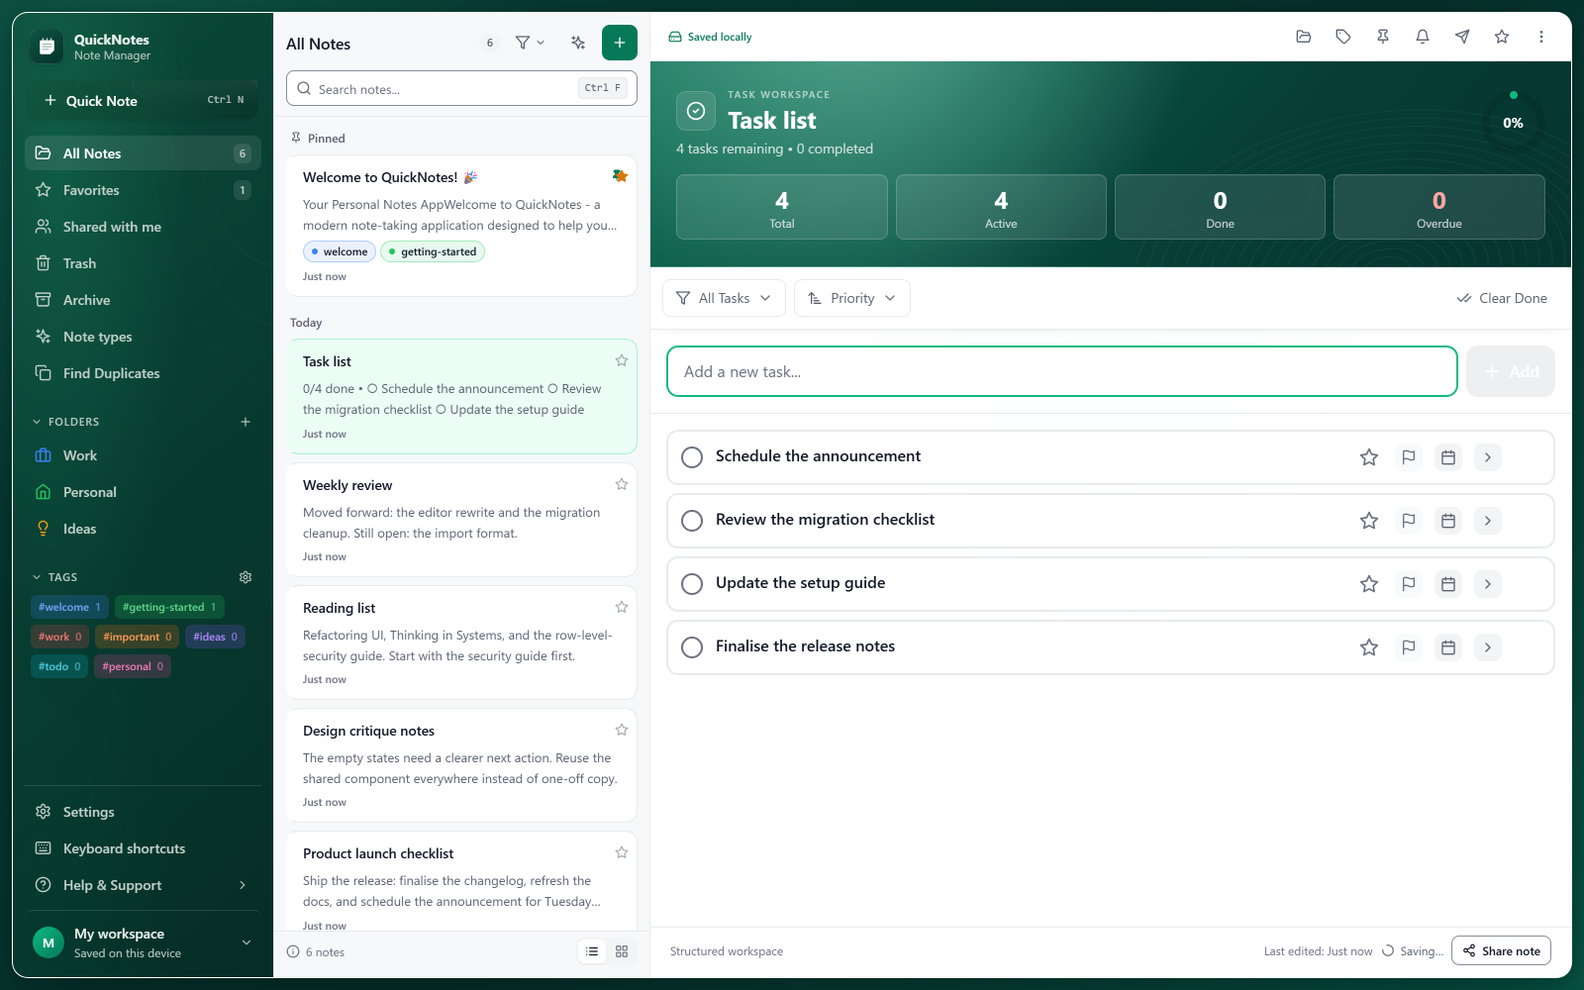
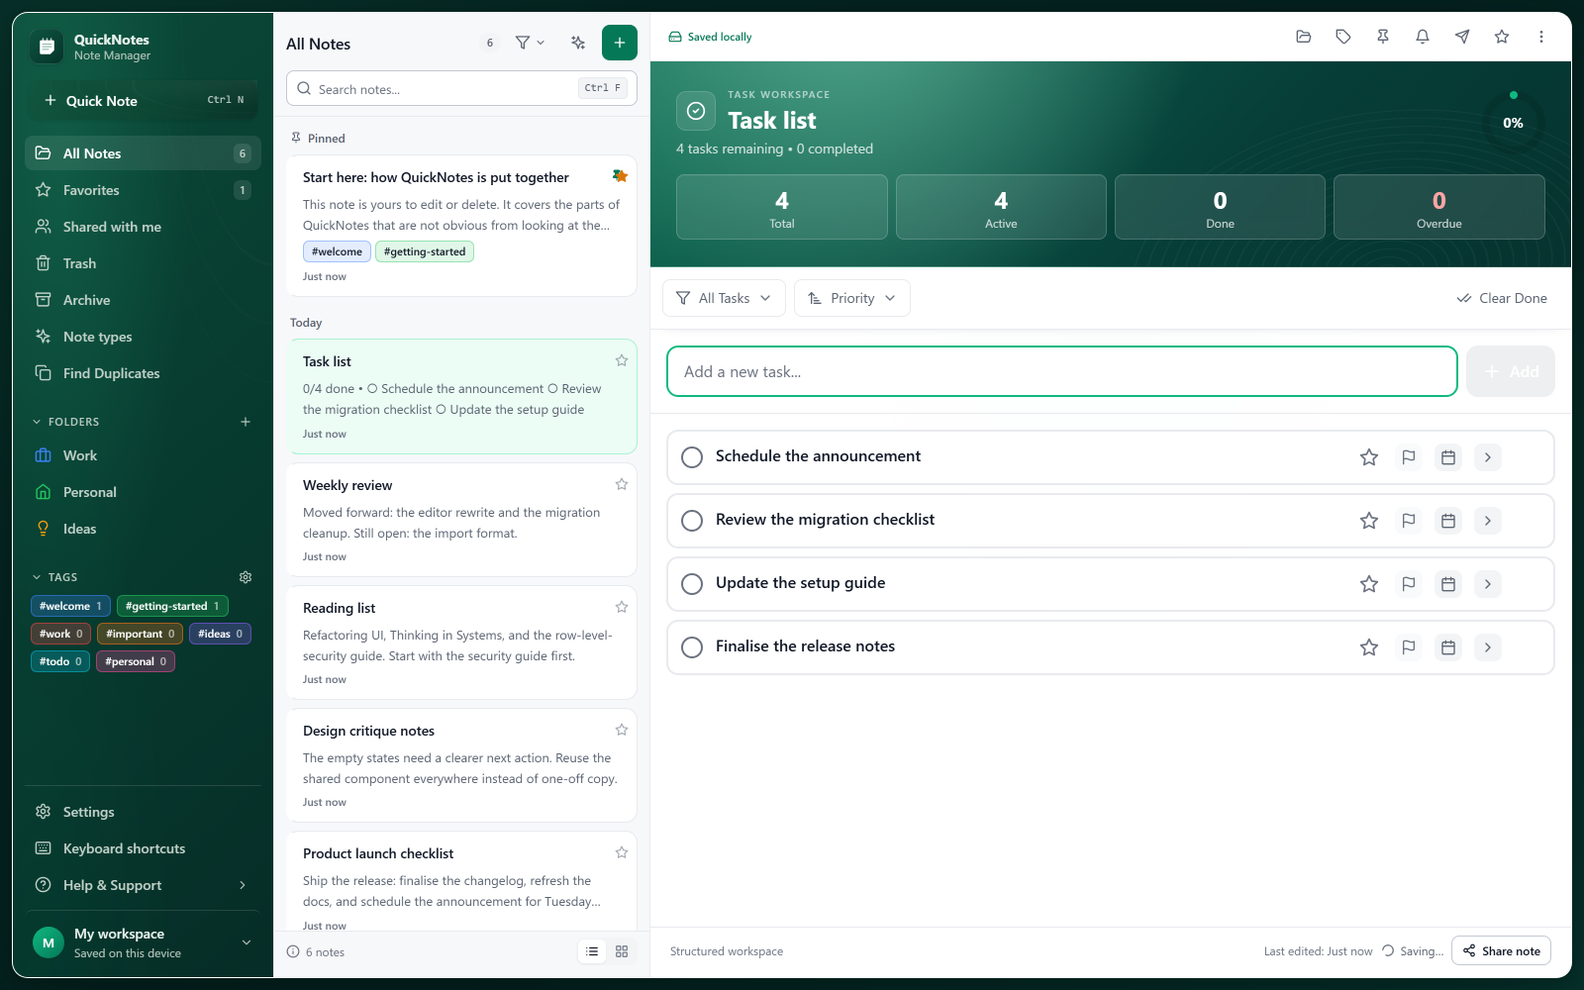
fix: restore the previous control borders, unify tag chips, rewrite the starter note
Control borders:
- Reverted the stronger interactive border introduced earlier, including the
  --qn-border-control token and its Tailwind mapping. It had only reached the
  shared Input and Button, while the many hand-rolled fields across the
  dialogs kept the old border, so the app was half converted and looked
  worse than before the change. Borders are byte-for-byte back to v2.0.1

Tag chips:
- There were three designs for the same thing: the note list drew a pill with
  a coloured dot and no "#", the rail drew a rounded chip with coloured text,
  and the editor banner drew a neutral chip that ignored the tag colour
  entirely. All three now use one TagChip with a `surface` or `dark` variant
- Dropped the dot. The hue is carried by the tint and the border, and the
  label still takes a theme text colour, so a user-chosen colour can never
  decide the contrast of the text

Workspace backdrop:
- The desk behind the workspace frame was nearly the same green as the
  navigation rail, so the frame stopped reading as inset. It is now darker
  and less saturated

Starter note:
- Rewritten. It was a feature list that read like marketing copy; it now
  explains the three-pane layout, when to reach for a folder versus a tag,
  what the structured workspaces are for, the shortcuts that are actually
  bound, and the behaviour that is easy to miss: trash retention, version
  history, archive, note links and the export formats

diff --git a/src/store/index.js b/src/store/index.js
@@ -8,34 +8,56 @@ import { endLocalSession } from '../lib/localSession'
 import { limitNoteTitle, normalizeTagName, validateFolderName } from '../lib/dataValidation'
 import { buildFolderIdRemap, remapNoteFolder } from '../lib/syncReconciliation'
 import toast from 'react-hot-toast'
-const WELCOME_TITLE = 'Welcome to QuickNotes! \u{1F389}'
+const WELCOME_TITLE = 'Start here: how QuickNotes is put together'
 
 const createStarterContent = () => {
   const welcomeNote = {
     id: generateId(),
     title: WELCOME_TITLE,
-    content: `<h2>Your Personal Notes App</h2>
-<p>Welcome to QuickNotes - a modern note-taking application designed to help you organize your thoughts!</p>
+    content: `<p>This note is yours to edit or delete. It covers the parts of QuickNotes that are not obvious from looking at the screen.</p>
 
-<h3>\u2728 Key Features</h3>
+<h2>Finding your way around</h2>
+<p>Three panes, left to right: the <strong>rail</strong> for navigation, the <strong>list</strong> of notes in the current view, and the <strong>editor</strong>. Below 1024px the rail becomes a drawer and the list and editor take turns, so the same workspace works on a phone.</p>
+<p>Everything saves as you type. The indicator in the sidebar footer tells you where your notes currently live \u2014 on this device only, or synced to your account.</p>
+
+<h2>Folders and tags do different jobs</h2>
 <ul>
-  <li><strong>Rich Text Editor</strong> - Format your notes with bold, italic, lists, and more</li>
-  <li><strong>Folders & Tags</strong> - Organize notes with folders and color-coded tags</li>
-  <li><strong>Cloud Sync</strong> - Access your notes from any device</li>
-  <li><strong>Offline Support</strong> - Works even without internet</li>
-  <li><strong>Dark Mode</strong> - Easy on the eyes</li>
-  <li><strong>Templates</strong> - Quick-start with meeting notes, to-do lists, and more</li>
+  <li><strong>A folder is where a note lives.</strong> One note, one folder. Good for separating contexts that never mix, like Work and Personal.</li>
+  <li><strong>A tag is something a note is about.</strong> A note can carry several. Good for threads that cut across folders, like <em>#important</em> or a project name.</li>
+</ul>
+<p>If you are unsure which to use, start with tags. They are easier to change your mind about later.</p>
+
+<h2>Beyond plain documents</h2>
+<p>Under <strong>Note types</strong> in the rail there are structured workspaces, each with its own fields rather than a blank page: a task list with priorities and due dates, a project board with columns and milestones, a meeting workspace for agenda, decisions and action items, a daily journal, an idea board, a shopping list, and a weekly planner.</p>
+<p>They behave like ordinary notes \u2014 searchable, taggable, exportable \u2014 so it is worth trying one before writing a plan by hand.</p>
+
+<h2>Shortcuts worth remembering</h2>
+<ul>
+  <li><strong>Ctrl+N</strong> \u2014 quick note, from anywhere, without leaving what you are doing</li>
+  <li><strong>Ctrl+K</strong> \u2014 search every note by title, body and tag</li>
+  <li><strong>Ctrl+F</strong> \u2014 find and replace inside the note you are editing</li>
+  <li><strong>Ctrl+T</strong> \u2014 choose a note type</li>
+  <li><strong>Ctrl+Shift+F</strong> \u2014 focus mode, just the text</li>
+  <li><strong>Ctrl+/</strong> \u2014 the full list, where you can rebind any of them</li>
 </ul>
 
-<h3>\u{1F680} Getting Started</h3>
+<h2>A few things that are easy to miss</h2>
+<ul>
+  <li>Deleted notes rest in <strong>Trash</strong> for 30 days before they are removed for good.</li>
+  <li>Every note keeps its last 30 versions. Open <strong>Version history</strong> from the editor menu to read or restore one.</li>
+  <li><strong>Archive</strong> is for notes you have finished with but do not want to lose \u2014 they leave the main list without being deleted.</li>
+  <li>Notes can link to each other. Press <strong>Ctrl+Shift+K</strong> while writing to insert a link, and the target note will show what points at it.</li>
+  <li>Export a single note as Markdown, HTML, plain text, JSON or PDF; import Markdown, text and HTML files back in.</li>
+</ul>
+
+<h2>Your first few minutes</h2>
 <ul data-type="taskList">
-  <li data-type="taskItem" data-checked="false"><label><input type="checkbox"><span></span></label><div><p>Create your first note with the + button</p></div></li>
-  <li data-type="taskItem" data-checked="false"><label><input type="checkbox"><span></span></label><div><p>Organize with folders in the sidebar</p></div></li>
-  <li data-type="taskItem" data-checked="false"><label><input type="checkbox"><span></span></label><div><p>Add tags to categorize your notes</p></div></li>
-  <li data-type="taskItem" data-checked="false"><label><input type="checkbox"><span></span></label><div><p>Try the Quick Note feature (Ctrl+N)</p></div></li>
-</ul>
-
-<p>Happy note-taking! \u{1F4DD}</p>`,
+  <li data-type="taskItem" data-checked="false"><label><input type="checkbox"><span></span></label><div><p>Write one real note \u2014 anything you would otherwise leave in a browser tab</p></div></li>
+  <li data-type="taskItem" data-checked="false"><label><input type="checkbox"><span></span></label><div><p>Rename the starter folders, or delete the ones you will not use</p></div></li>
+  <li data-type="taskItem" data-checked="false"><label><input type="checkbox"><span></span></label><div><p>Create a task list from Note types and add three things you owe someone</p></div></li>
+  <li data-type="taskItem" data-checked="false"><label><input type="checkbox"><span></span></label><div><p>Press Ctrl+K and search for a word you just typed</p></div></li>
+  <li data-type="taskItem" data-checked="false"><label><input type="checkbox"><span></span></label><div><p>Decide whether this note stays or goes</p></div></li>
+</ul>`,
     folderId: null,
     tags: ['welcome', 'getting-started'],
     starred: true,

diff --git a/src/components/ui/Badge.jsx b/src/components/ui/Badge.jsx
@@ -39,41 +39,52 @@ export function CountBadge({ value, tone = 'neutral', className = '' }) {
 }
 
 /**
- * Tag pill.
+ * The one tag chip. Used by the note list, the sidebar rail and the editor
+ * banner, so a tag looks the same wherever it appears.
  *
- * The tag colour is user-chosen and can therefore never be relied on for
- * text contrast: a light label on a light tint of the same hue falls far
- * below WCAG's 4.5:1 requirement. The colour is carried by the dot and the
- * border while the label keeps the standard text colour, so the hue stays
- * an identity cue without being the only cue.
+ * The hue is carried by a tint and a matching border. It is never used for the
+ * label, because the colour is user-chosen and a light label on a light tint of
+ * the same hue falls far below WCAG's 4.5:1 — the label always takes a theme
+ * text colour instead.
+ *
+ * `surface` sits on the light panels, `dark` on the rail and the editor banner,
+ * where the tint has to be stronger to register against a dark green.
  */
-export function TagChip({ name, color = '#6b7280', count, active, as = 'span', ...props }) {
+const TAG_SURFACES = {
+  surface: { tint: 14, border: 40, text: 'text-content', count: 'text-content-subtle' },
+  dark: { tint: 26, border: 55, text: 'text-white', count: 'text-white/60' },
+}
+
+export function TagChip({
+  name,
+  color = '#6b7280',
+  count,
+  active,
+  surface = 'surface',
+  as = 'span',
+  ...props
+}) {
   const Component = as
+  const tone = TAG_SURFACES[surface] || TAG_SURFACES.surface
   return (
     <Component
       {...props}
       className={[
-        'inline-flex max-w-full items-center gap-1.5 rounded-full border px-2 py-0.5 text-ui-xs font-medium text-content transition-colors duration-fast',
-        active
-          ? 'ring-2 ring-[var(--qn-focus-ring)] ring-offset-1 ring-offset-[var(--qn-surface-panel)]'
-          : '',
-        as === 'button' ? 'cursor-pointer hover:bg-surface-hover' : '',
+        'inline-flex max-w-full items-center gap-1.5 rounded-md border px-2 py-0.5 text-ui-xs font-medium transition-colors duration-fast',
+        tone.text,
+        active ? 'ring-2 ring-[var(--qn-focus-ring)] ring-offset-1 ring-offset-[var(--qn-surface-panel)]' : '',
+        as === 'button' ? 'cursor-pointer hover:brightness-110' : '',
         props.className || '',
       ].join(' ')}
       style={{
-        backgroundColor: `color-mix(in srgb, ${color} 10%, transparent)`,
-        borderColor: `color-mix(in srgb, ${color} 35%, transparent)`,
+        backgroundColor: `color-mix(in srgb, ${color} ${tone.tint}%, transparent)`,
+        borderColor: `color-mix(in srgb, ${color} ${tone.border}%, transparent)`,
         ...props.style,
       }}
     >
-      <span
-        aria-hidden="true"
-        className="h-1.5 w-1.5 shrink-0 rounded-full"
-        style={{ backgroundColor: color }}
-      />
-      <span className="truncate">{name}</span>
+      <span className="truncate">#{name}</span>
       {count !== undefined && (
-        <span className="shrink-0 tabular-nums text-content-subtle">{count}</span>
+        <span className={`shrink-0 tabular-nums ${tone.count}`}>{count}</span>
       )}
     </Component>
   )

diff --git a/src/components/AuthScreen.jsx b/src/components/AuthScreen.jsx
@@ -232,7 +232,7 @@ function AuthField({ id, label, icon: Icon, error, trailing, className = '', ...
           id={id}
           aria-invalid={!!error}
           aria-describedby={error ? `${id}-error` : undefined}
-          className="h-11 w-full rounded-[10px] border border-control bg-surface-raised pl-10 pr-3 text-ui-lg text-content shadow-xs outline-none transition-[border-color,box-shadow] placeholder:text-content-subtle focus:border-accent focus:ring-2 focus:ring-[var(--qn-accent-soft)] aria-[invalid=true]:border-danger"
+          className="h-11 w-full rounded-[10px] border border-strong bg-surface-raised pl-10 pr-3 text-ui-lg text-content shadow-xs outline-none transition-[border-color,box-shadow] placeholder:text-content-subtle focus:border-accent focus:ring-2 focus:ring-[var(--qn-accent-soft)] aria-[invalid=true]:border-danger"
           {...inputProps}
         />
         {trailing}
@@ -381,7 +381,7 @@ export default function AuthScreen() {
       <div
         role="tablist"
         aria-label="Account access"
-        className="mb-7 grid grid-cols-2 rounded-[10px] border border-control bg-surface-sunken p-1"
+        className="mb-7 grid grid-cols-2 rounded-[10px] border border-subtle bg-surface-sunken p-1"
       >
         {[
           ['login', 'Sign in'],
@@ -395,7 +395,7 @@ export default function AuthScreen() {
             onClick={() => changeMode(value)}
             className={`h-9 rounded-[7px] text-ui-md font-semibold transition-colors ${
  mode === value
- ? 'bg-surface-raised text-content shadow-sm ring-1 ring-[var(--qn-border-control)]'
+ ? 'bg-surface-raised text-content shadow-xs'
                 : 'text-content-muted hover:text-content'
             }`}
           >
@@ -531,7 +531,7 @@ export default function AuthScreen() {
       <button
         type="button"
         onClick={() => changeMode('local')}
-        className="flex h-11 w-full items-center justify-center gap-2 rounded-[10px] border border-control bg-surface-raised text-ui-md font-semibold text-content shadow-xs hover:bg-surface-hover"
+        className="flex h-11 w-full items-center justify-center gap-2 rounded-[10px] border border-strong bg-surface-raised text-ui-md font-semibold text-content shadow-xs hover:bg-surface-hover"
       >
         <HardDrive className="h-4 w-4 text-accent-text" aria-hidden="true" />
         Use a private local workspace
@@ -623,7 +623,7 @@ export default function AuthScreen() {
             type="checkbox"
             checked={formData.agreeToTerms}
             onChange={(event) => handleInputChange('agreeToTerms', event.target.checked)}
-            className="mt-0.5 h-4 w-4 rounded border-control text-accent focus:ring-accent"
+            className="mt-0.5 h-4 w-4 rounded border-strong text-accent focus:ring-accent"
           />
           <span>
             I agree to the{' '}

diff --git a/src/components/ui/Field.jsx b/src/components/ui/Field.jsx
@@ -45,7 +45,7 @@ export function Field({ label, hint, error, required, children, className = '', 
 }
 
 const inputBase =
-  'w-full bg-surface-raised text-content placeholder:text-content-subtle border border-control rounded-control ' +
+  'w-full bg-surface-raised text-content placeholder:text-content-subtle border border-strong rounded-control ' +
   'transition-[border-color,box-shadow] duration-fast ease-qn ' +
   'focus:outline-none focus:border-accent focus:ring-2 focus:ring-[var(--qn-accent-soft)] ' +
   'disabled:cursor-not-allowed disabled:bg-surface-sunken disabled:text-content-subtle ' +
@@ -114,7 +114,7 @@ export function Toggle({ checked, onChange, label, description, disabled, id: pr
         />
         <span
           aria-hidden="true"
-          className="h-5 w-9 rounded-full bg-[var(--qn-border-control)] transition-colors duration-fast peer-checked:bg-accent peer-disabled:opacity-50 peer-focus-visible:outline peer-focus-visible:outline-2 peer-focus-visible:outline-offset-2 peer-focus-visible:outline-[var(--qn-focus-ring)]"
+          className="h-5 w-9 rounded-full bg-[var(--qn-border-strong)] transition-colors duration-fast peer-checked:bg-accent peer-disabled:opacity-50 peer-focus-visible:outline peer-focus-visible:outline-2 peer-focus-visible:outline-offset-2 peer-focus-visible:outline-[var(--qn-focus-ring)]"
         />
         <span
           aria-hidden="true"
@@ -131,7 +131,7 @@ export function SegmentedControl({ value, onChange, options, label, size = 'md' 
     <div
       role="radiogroup"
       aria-label={label}
-      className="inline-flex w-full gap-1 rounded-control border border-control bg-surface-sunken p-1"
+      className="inline-flex w-full gap-1 rounded-control border border-subtle bg-surface-sunken p-1"
     >
       {options.map((option) => {
         const selected = option.value === value
@@ -146,7 +146,7 @@ export function SegmentedControl({ value, onChange, options, label, size = 'md' 
               'flex-1 rounded-[calc(var(--qn-radius-control)-2px)] px-2.5 font-medium transition-colors duration-fast',
               size === 'sm' ? 'h-6 text-ui-xs' : 'h-7 text-ui-sm',
               selected
-                ? 'bg-surface-raised text-content shadow-sm ring-1 ring-[var(--qn-border-control)]'
+                ? 'bg-surface-raised text-content shadow-xs'
                 : 'text-content-muted hover:text-content',
             ].join(' ')}
           >

diff --git a/src/components/Sidebar.jsx b/src/components/Sidebar.jsx
@@ -24,7 +24,7 @@ import { useNotesStore, useThemeStore, useUIStore } from '../store'
 import { useTranslation } from '../lib/useTranslation'
 import { getFolderIcon } from '../lib/folderIcons'
 import { isBackendConfigured } from '../lib/backend'
-import { Avatar, Menu, MenuItem, MenuSeparator, NotepadGlyph } from './ui'
+import { Avatar, Menu, MenuItem, MenuSeparator, NotepadGlyph, TagChip } from './ui'
 import { FolderDialog, ConfirmDialog } from './FolderDialogs'
 
 /**
@@ -372,24 +372,18 @@ export default function Sidebar({ onNavigate }) {
               {tags.map((tag) => {
                 const active = selectedTagFilter === tag.name
                 return (
-                  <button
+                  <TagChip
                     key={tag.id}
+                    as="button"
                     type="button"
+                    surface="dark"
                     aria-pressed={active}
                     onClick={go(() => setSelectedTagFilter(tag.name))}
-                    className={`inline-flex max-w-full items-center gap-1.5 rounded-md px-2 py-1 text-ui-xs font-semibold transition-colors duration-fast ${
- active ? 'ring-1 ring-white/40' : ''
- }`}
-                    style={{
-                      backgroundColor: `color-mix(in srgb, ${tag.color} 20%, transparent)`,
-                      color: `color-mix(in srgb, ${tag.color} 72%, white)`,
-                    }}
-                  >
-                    <span className="truncate">#{tag.name}</span>
-                    <span className="shrink-0 tabular-nums opacity-70">
-                      {counts.byTag.get(tag.name) || 0}
-                    </span>
-                  </button>
+                    name={tag.name}
+                    color={tag.color}
+                    count={counts.byTag.get(tag.name) || 0}
+                    className={active ? 'ring-1 ring-white/40' : ''}
+                  />
                 )
               })}
             </div>

diff --git a/src/components/NoteEditor.jsx b/src/components/NoteEditor.jsx
@@ -42,7 +42,7 @@ import { saveNoteVersion } from '../lib/db'
 import { useRealtimeCollaboration } from '../lib/useCollaboration'
 import { getFolderIcon } from '../lib/folderIcons'
 import { MAX_NOTE_TITLE_LENGTH, MAX_TAG_NAME_LENGTH } from '../lib/dataValidation'
-import { IconButton, Input, Menu, MenuItem, MenuSeparator, EmptyState } from './ui'
+import { IconButton, Input, Menu, MenuItem, MenuSeparator, EmptyState, TagChip } from './ui'
 import { ConfirmDialog } from './FolderDialogs'
 import { SyncStatusPill } from './SyncStatus'
 import { isBackendConfigured } from '../lib/backend'
@@ -449,10 +449,13 @@ export default function NoteEditor({ onBack, showBack = false }) {
           {note.tags?.length > 0 && (
             <ul className="flex min-w-0 flex-wrap items-center gap-1">
               {note.tags.map((tagName) => (
-                <li key={tagName}>
-                  <span className="inline-flex max-w-[16ch] items-center rounded-full border border-banner-border bg-banner-hover px-2 py-0.5 text-ui-xs font-medium text-banner-text">
-                    <span className="truncate">#{tagName}</span>
-                  </span>
+                <li key={tagName} className="min-w-0">
+                  <TagChip
+                    surface="dark"
+                    name={tagName}
+                    color={tags.find((tag) => tag.name === tagName)?.color || '#6b7280'}
+                    className="max-w-[16ch]"
+                  />
                 </li>
               ))}
             </ul>

diff --git a/src/styles/tokens.css b/src/styles/tokens.css
@@ -74,12 +74,6 @@
   --qn-border-subtle: #e8eaee;
   --qn-border: #dcdfe5;
   --qn-border-strong: #c3c8d1;
-  /* Boundary of an interactive control (input, select, segmented track).
-     WCAG 1.4.11 asks for 3:1 against the adjacent surface, which the
-     decorative borders above do not reach: --qn-border-strong measures
-     1.7:1 on white. This one measures 3.4:1 on white and 3.2:1 on the
-     panel, so a field is visible without being drawn as a heavy box. */
-  --qn-border-control: #848c99;
 
   /* --- Text ------------------------------------------------- */
   /* Contrast ratios are measured against --qn-surface-panel (#f7f8fa),
@@ -220,8 +214,6 @@
   --qn-border-subtle: #1e2630;
   --qn-border: #29313d;
   --qn-border-strong: #3a4553;
-  /* 3.7:1 against the raised surface. */
-  --qn-border-control: #6b7684;
 
   --qn-text: #e8ebef;
   --qn-text-muted: #98a2b3;

diff --git a/src/components/TextBoxView.jsx b/src/components/TextBoxView.jsx
@@ -295,7 +295,7 @@ export default function TextBoxView({ node, updateAttributes, deleteNode, select
           onPointerDown={onResizePointerDown}
           title="Drag to resize"
           aria-hidden="true"
-          className="absolute -bottom-1 -right-1 z-20 h-3.5 w-3.5 cursor-nwse-resize rounded-sm border border-control bg-surface-raised opacity-0 transition-opacity duration-fast group-hover/textbox:opacity-100 [.qn-text-box--selected_&]:opacity-100"
+          className="absolute -bottom-1 -right-1 z-20 h-3.5 w-3.5 cursor-nwse-resize rounded-sm border border-strong bg-surface-raised opacity-0 transition-opacity duration-fast group-hover/textbox:opacity-100 [.qn-text-box--selected_&]:opacity-100"
         />
       )}
     </NodeViewWrapper>

diff --git a/src/components/NoteStatistics.jsx b/src/components/NoteStatistics.jsx
@@ -119,7 +119,7 @@ export default function NoteStatistics({ note }) {
           <button
             type="button"
             onClick={() => setShareModalOpen(true, note.id)}
-            className="hidden h-control-sm items-center gap-1.5 rounded-control border border-control px-2.5 text-ui-sm font-medium text-content transition-colors duration-fast hover:bg-surface-hover sm:inline-flex"
+            className="hidden h-control-sm items-center gap-1.5 rounded-control border border-strong px-2.5 text-ui-sm font-medium text-content transition-colors duration-fast hover:bg-surface-hover sm:inline-flex"
           >
             <Share2 className="h-3.5 w-3.5" aria-hidden="true" />
             {t('editor.share', 'Share')}

diff --git a/src/index.css b/src/index.css
@@ -725,10 +725,13 @@ input[type="datetime-local"]:not([class*="opacity-0"]):focus {
 }
 
 @media (min-width: 1280px) and (min-height: 700px) {
+  /* The desk the workspace frame sits on. Deliberately darker and less
+     saturated than the navigation rail: at the rail's own intensity the two
+     greens read as one surface and the frame stops looking inset. */
   body {
     background:
-      radial-gradient(circle at 8% 10%, rgba(52, 211, 153, 0.18), transparent 26%),
-      linear-gradient(135deg, #073f37, #062f2b 55%, #075647);
+      radial-gradient(circle at 8% 10%, rgba(52, 211, 153, 0.07), transparent 30%),
+      linear-gradient(135deg, #052723, #04201e 55%, #06322c);
   }
 
   .qn-workspace-frame {

diff --git a/src/components/ui/Button.jsx b/src/components/ui/Button.jsx
@@ -5,7 +5,7 @@ const VARIANTS = {
   primary:
     'bg-accent text-accent-on hover:bg-accent-hover active:bg-accent-active shadow-xs disabled:bg-[var(--qn-border-strong)] disabled:text-content-subtle disabled:shadow-none',
   secondary:
-    'bg-surface-raised text-content border border-control hover:bg-surface-hover active:bg-surface-active disabled:text-content-subtle',
+    'bg-surface-raised text-content border border-strong hover:bg-surface-hover active:bg-surface-active disabled:text-content-subtle',
   subtle:
     'bg-surface-sunken text-content hover:bg-surface-hover active:bg-surface-active disabled:text-content-subtle',
   ghost:

diff --git a/src/components/NoteTypesModal.jsx b/src/components/NoteTypesModal.jsx
@@ -300,7 +300,7 @@ export default function NoteTypesModal({ onCreated }) {
                               'mt-0.5 flex h-4 w-4 shrink-0 items-center justify-center rounded-full border',
                               active
                                 ? 'border-accent bg-accent text-accent-on'
-                                : 'border-control bg-surface-raised',
+                                : 'border-strong bg-surface-raised',
                             ].join(' ')}
                           >
                             {active && <span className="h-1.5 w-1.5 rounded-full bg-current" />}
